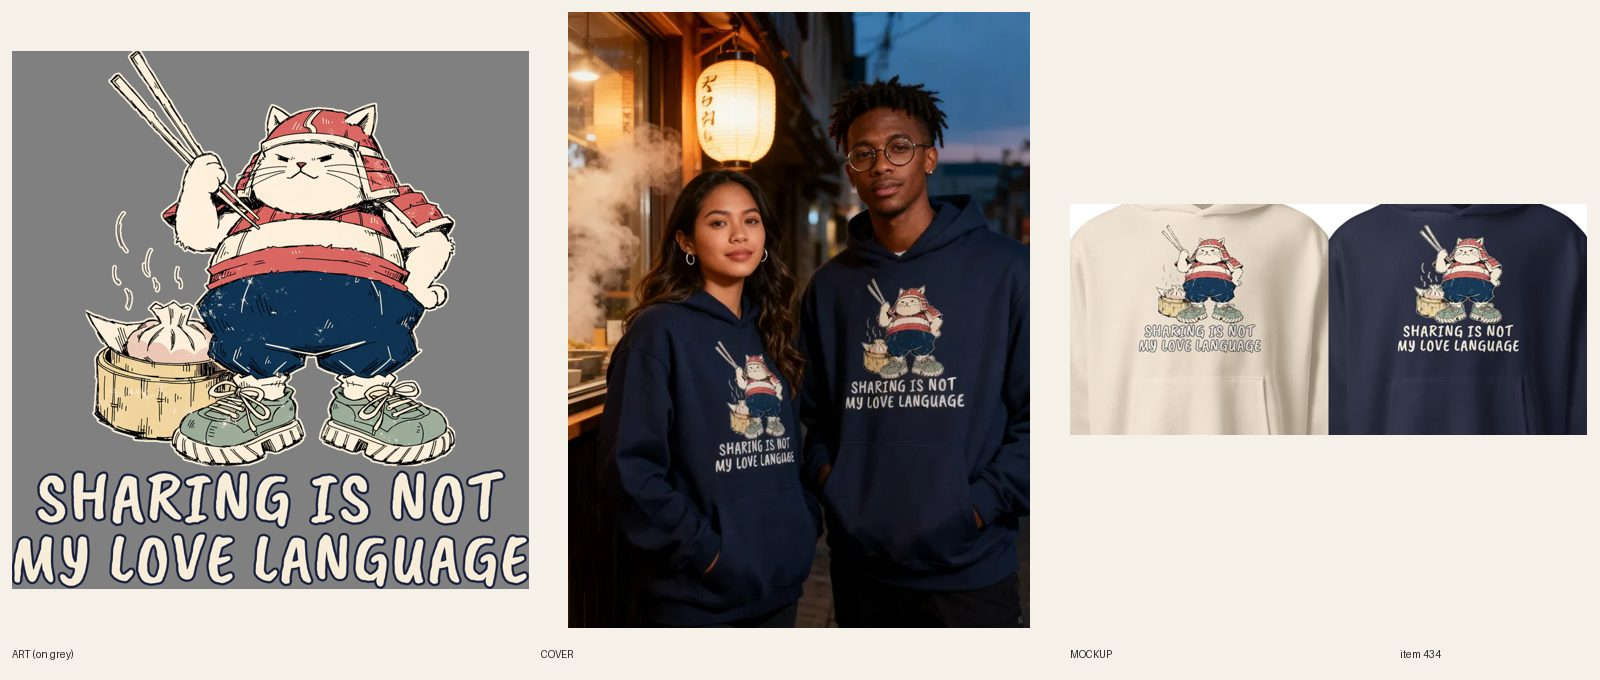
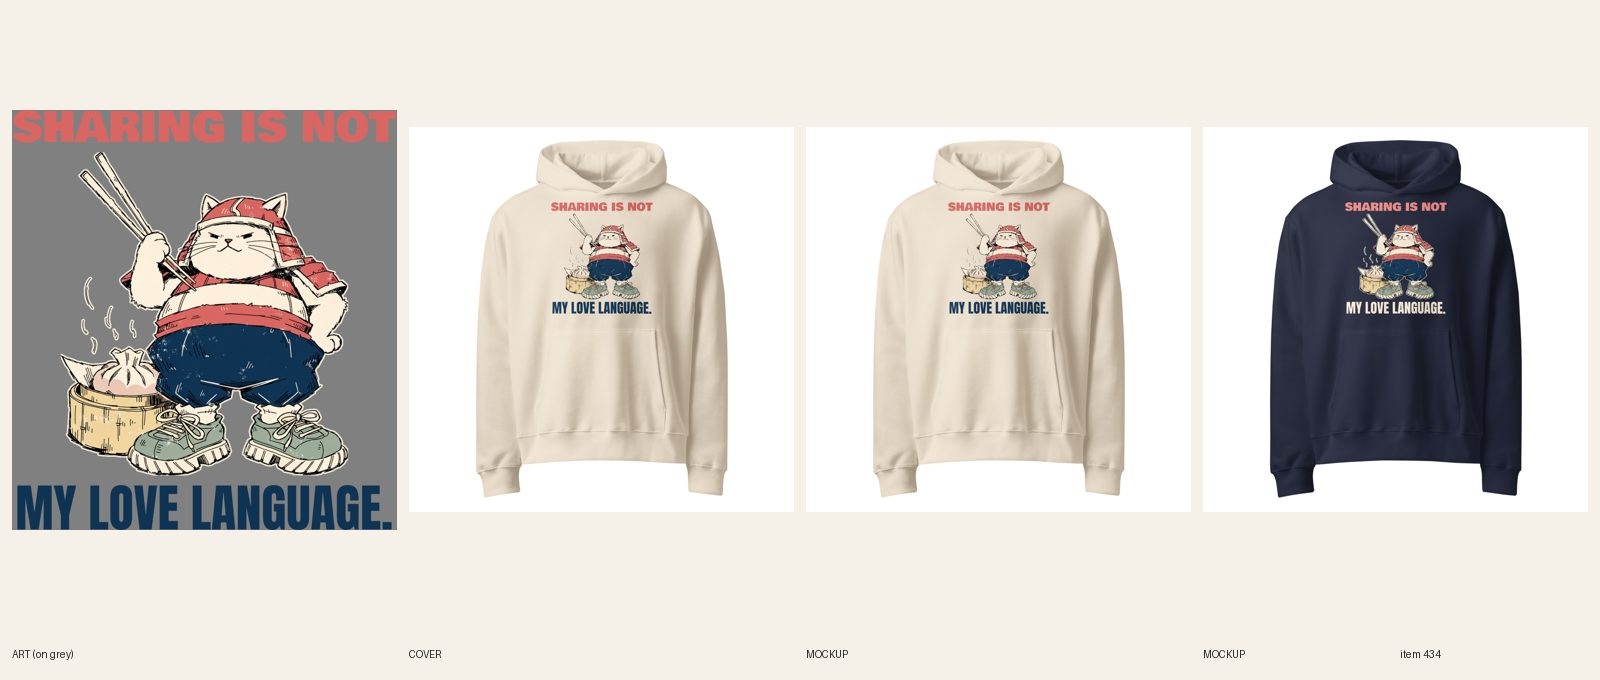
[A] review 434 Sharing Is Not My Love Language hoodie (type redo)
Claude-Session: https://claude.ai/code/session_018RTZA83BXteGXK6UwX3J55

diff --git a/designs/a434/make.py b/designs/a434/make.py
@@ -1,0 +1,34 @@
+from PIL import Image, ImageDraw, ImageFont
+import sys
+art=Image.open('designs/a434/art.png').convert('RGBA'); art=art.crop(art.getbbox())
+def line(text,font,size,maxw,fill):
+    while True:
+        f=ImageFont.truetype('designs/fonts/'+font,size)
+        adv=[f.getlength(c) for c in text]; tot=int(sum(adv))
+        if tot<=maxw: break
+        size=int(size*0.98)
+    asc,desc=f.getmetrics()
+    im=Image.new('RGBA',(tot+300,asc+desc+200),(0,0,0,0)); d=ImageDraw.Draw(im); x=150
+    for c,a in zip(text,adv):
+        d.text((x,100),c,font=f,fill=fill); x+=a
+    return im.crop(im.getbbox())
+def build(name,c1,c2):
+    W=3250
+    gap=80
+    h1=line('SHARING IS NOT','BowlbyOne-Regular.ttf',900,W,c1)
+    h2=line('MY LOVE LANGUAGE.','Anton-Regular.ttf',900,W,c2)
+    ah=int(1.09*W-h1.height-h2.height-2*gap); aw=int(ah*art.width/art.height)
+    a2=art.resize((aw,ah),Image.LANCZOS)
+    H=h1.height+gap+ah+gap+h2.height
+    out=Image.new('RGBA',(W,H),(0,0,0,0))
+    out.alpha_composite(h1,((W-h1.width)//2,0)); y=h1.height+gap
+    out.alpha_composite(a2,((W-aw)//2,y)); y+=ah+gap
+    out.alpha_composite(h2,((W-h2.width)//2,y))
+    out.save(f'designs/a434/print-{name}.png'); print(name,out.size,h1.size,h2.size,art.size)
+    return out
+d=build('dust',(217,102,98,255),(15,51,83,255)); n=build('navy',(240,138,132,255),(253,239,219,255))
+S='/tmp/claude-0/-home-user-graphicteesco/50049364-b5b7-5699-87f7-2d6669225dd7/scratchpad/p434.jpg'
+ims=[]
+for im,c in ((d,(214,203,180,255)),(n,(27,38,64,255))):
+    bg=Image.new('RGBA',im.size,c); bg.alpha_composite(im); ims.append(bg.convert('RGB').resize((600,int(600*im.height/im.width))))
+o=Image.new('RGB',(1200,ims[0].height)); o.paste(ims[0],(0,0)); o.paste(ims[1],(600,0)); o.save(S)

diff --git a/docs/intake-log.md b/docs/intake-log.md
@@ -1,7 +1,7 @@
 2026-10-19 20:31 UTC — [E] Builder run: redid #538 Women's Motherhood Didn't Change Me tee (type only: Alfa Slab rust headline full width + Bevan green IT EXPOSED ME., same art, FW 1400, file 1089823424, 30/30 resynced, 5 fronts replaced in place, plain product shot). REVIEW. fal $0. Lock released.
-RUNNING lane A since 2026-10-19 20:30 UTC
 2026-10-19 20:57 UTC — [C] Builder run: redid #487 Unisex University of Staying In crewneck (type only: Fraunces Black UNIVERSITY OF / STAYING IN full width cream+orange, bold EST. WHENEVER., same art, FW 1650 TOP 30, light file 1089833025 (Navy) + dark-ink file 1089833068 (Sand), 12/12 relinked, 2 fronts replaced in place, copy updated, plain product shot). REVIEW. fal $0. Lock released.
 2026-10-19 20:33 UTC — [B] Builder run: redid #385 Fisher of Men half zip (type only: Big Shoulders Display Black, both lines 98% of art width, pine/rust on Dust, cream/orange on Navy, same scene, 14/14 relinked, 4 mockups replaced in place, copy updated, plain product shot). REVIEW. fal $0. Lock released.
+2026-10-19 20:39 UTC — [A] Builder run: redid #434 Sharing Is Not My Love Language oversized hoodie (type only: Bowlby One red SHARING IS NOT + Anton MY LOVE LANGUAGE. at full print width, same art, FW 1500 TOP 0, Dust file 1089845196 / Navy light file 1089845267, 12/12 relinked, 2 fronts replaced in place, copy updated, plain product shot). REVIEW. fal $0. Lock released.
 RUNNING lane C since 2026-10-19 20:23 UTC
 2026-10-19 20:25 UTC — [D] Director run (RESUMED). Inbox: nothing new since the 17:55 note. Reviewed 7 new type-redo sheets (#556 #521 #478 #522 #562 #525 #527), all at the new type bar side by side with 493 and 483/479. LIVE 6 (cap): #560 #614 #625 #512 #460 (held from last run) and #556; #614 set ACTIVE + Online Store, Headless, Google & YouTube, the rest already ACTIVE. Audit --handle PASS 0 warn on all 6. Shopify copy fix: #556 Story still described the old lowercase script line. Approved and held at REVIEW: #521 #478 #522 #562 #525 #527 and the 31 add-ons. No REDO. READY: A 12, B 12, C 12 (E 5), so no new briefs. No Telegram (midday digest went at 12:20; nothing needs Sam). Monday check already done today. Lock released.
 2026-10-19 20:12 UTC — [B] Builder run: redid #548 National Park crewneck (ported #624 THE VIEW BETTER / BE WORTH IT. print, FW 1650, 12/12 relinked, 2 fronts replaced in place, copy updated, plain product shot). REVIEW. fal $0. 1 redo per run cap reached. Lock released.

diff --git a/docs/pipeline/434-anime-oversized-hoodie-last-dumpling.md b/docs/pipeline/434-anime-oversized-hoodie-last-dumpling.md
@@ -1,4 +1,4 @@
-status: BUILDING [A] 2026-10-19 20:35 UTC
+status: REVIEW
 lane: A
 type: new
 id: 434
@@ -33,3 +33,4 @@ kd: 19
 - 2026-10-17 21:52 UTC builder [A]: Printful resync verified (12/12 variants on the new file); REVIEW.
 - 2026-10-17 22:39 UTC director: APPROVED, LIVE. ACTIVE + Online Store, Headless and Google & YouTube; audit --handle PASS (0 warn). Copy polished by the director first (R8: keyword counts, superlatives, false claims). Kept the built line SHARING IS NOT MY LOVE LANGUAGE (it passes; the later rewrite is withdrawn).
 - 2026-10-18 17:22 UTC director: QUALITY RESET grade B (type only), REDO. The product stays ACTIVE (same handle, URL, title keyword). Keep the line "SHARING IS NOT / MY LOVE LANGUAGE" and the art. 1. Type: Light casual hand-font, uniform size, no heavy headline or hierarchy. 2. Quality reset type bar (docs/backlog/quality-reset.md, 'The new bar'): headline at least 90% of the art width, heavy, colors pulled from the art; second line at least 45% of the headline's height, never a thin script on a dark or mid garment; use the lettering as a shape (arch, stacked lockup, words breaking into the art), not a plain bar above and a script line below; no font used on more than 1 in 6 of the last 30 designs. 3. New print file means a new cover per R6.10 and a fresh review sheet (R7.7). While quality-reset.md says PAUSED, only lane A builds, and only the samples step 2 names.
+- 2026-10-19 20:38 UTC builder [A]: REDO type-only done (director grade B). Same cat art; SHARING IS NOT in Bowlby One red + MY LOVE LANGUAGE. in Anton, both full print width (art 72%, lockup aspect 1.09), FW 1500 TOP 0. Light file: Navy on 1089845267 (headline light coral, second line cream); Dust on 1089845196 (headline red, second line navy). Relinked 12/12 (Dust 6, Navy 6), back logo 1080398177 kept. 2 fronts replaced in place (fileUpdate), phone-size read ok on both. Copy: Story lettering sentence updated; FAQs 5, Dec 8 kept; no R8.3 opener. Plain product shot (handle added to retired-covers.json). audit --handle PASS 0 warn; build ok. fal $0. Sheet docs/review/434.jpg.
